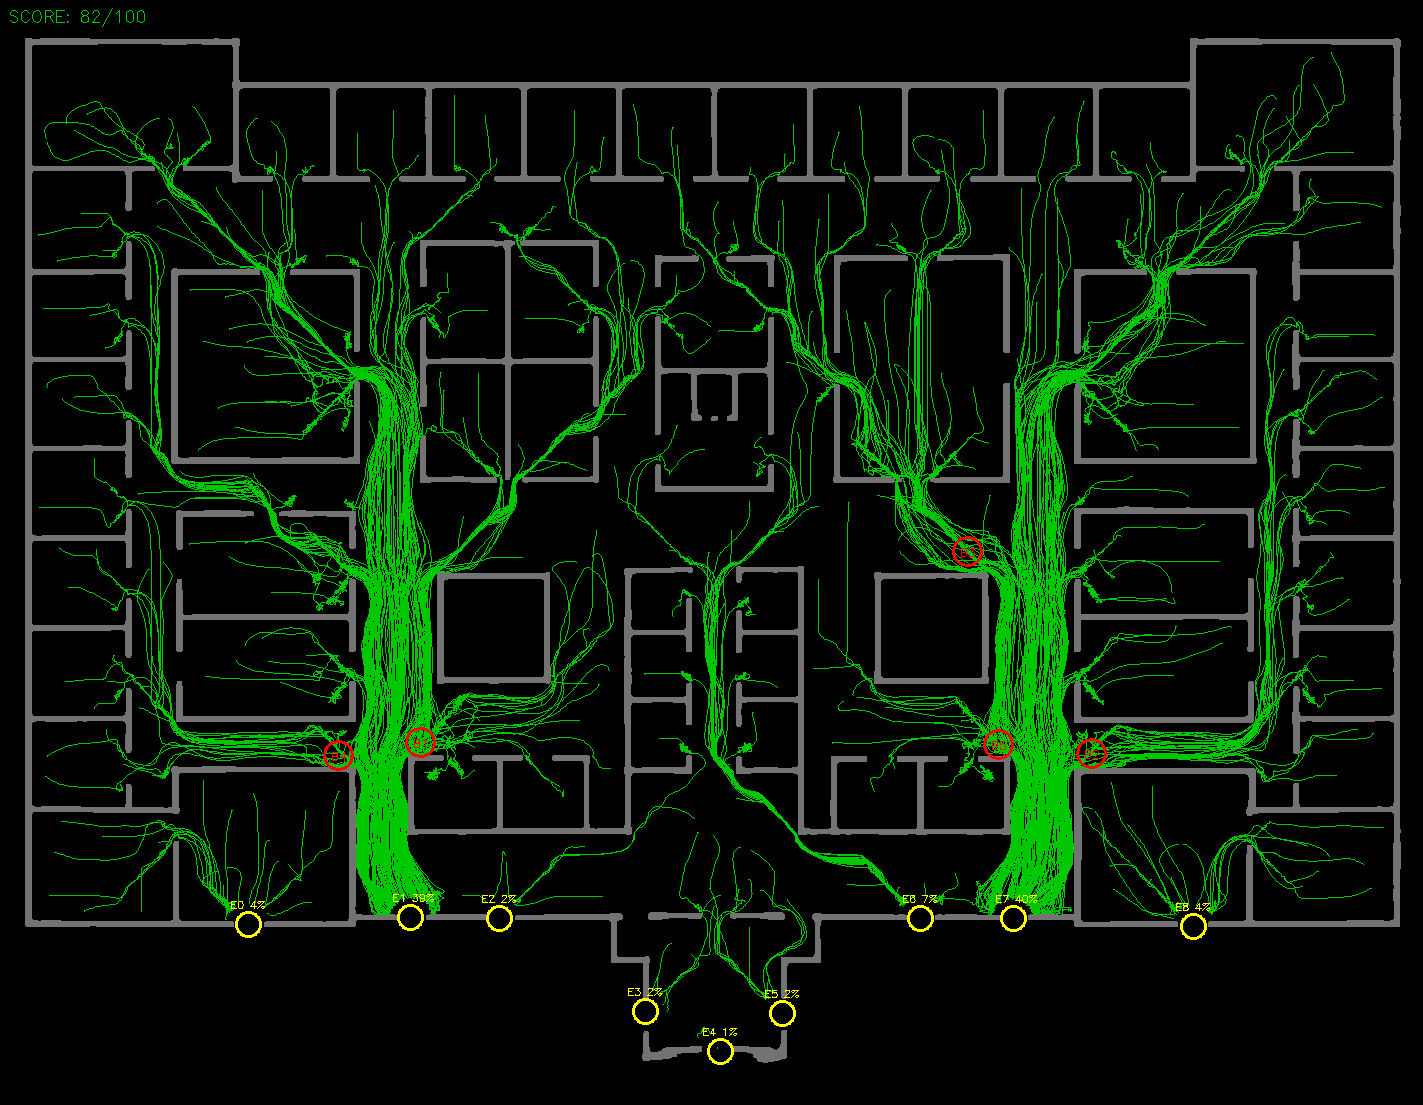
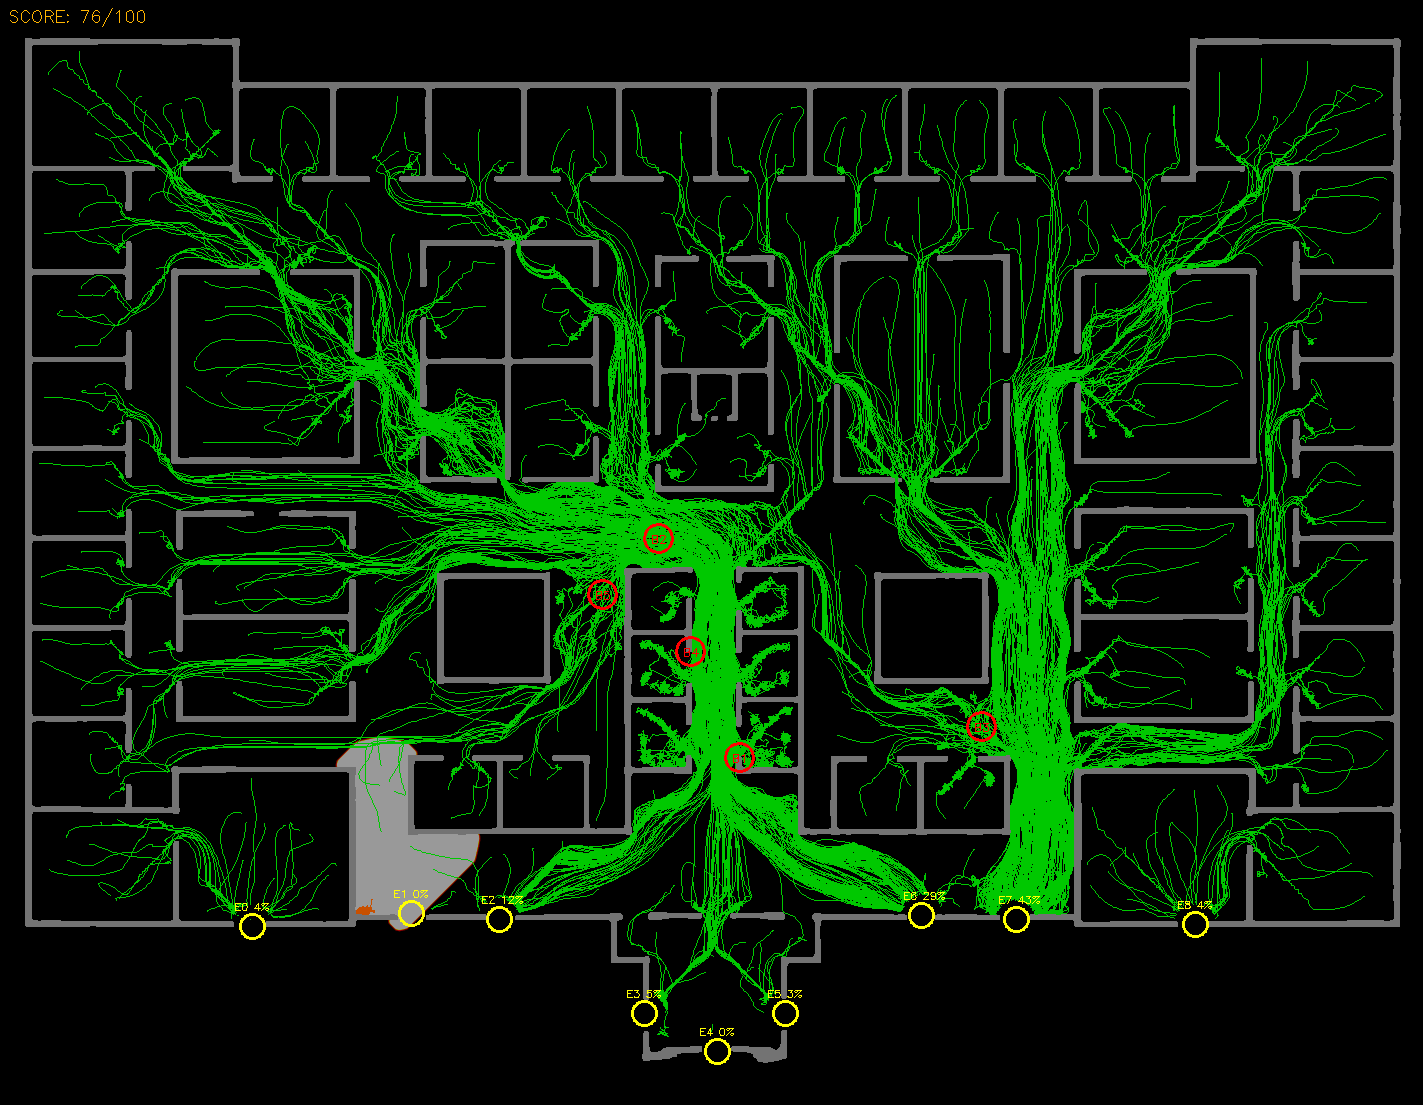
updated readme

diff --git a/README.md b/README.md
@@ -43,7 +43,7 @@ The pipeline has three stages:
 
 **Stage 1 — Map Parser**: Tiles the input image with 50% overlap, runs each patch through the U-Net, Gaussian-blends predictions back, binarizes to `stitched_mask.png` (black = walkable, white = wall).
 
-**Stage 2 — Zone Editor**: Watershed segmentation splits walkable area into rooms/corridors. You click zones to set agent density and place exit markers. Saves to a JSON config.
+**Stage 2 — Zone Editor**: Watershed segmentation splits walkable area into rooms/corridors. You click zones to set agent density, place exit markers, and optionally drop a hazard. Saves to a JSON config.
 
 **Stage 3 — Simulation**: Launches one of the four simulation scripts as a subprocess, streams output to the UI, displays the result image and report.
 
@@ -114,7 +114,29 @@ A 5000px² room at density 1.0 with base 1.0 gets 5 agents. Set density to 0 to 
 
 ---
 
-### 3. Four Simulation Algorithms
+### 3. Hazard & Fire Spread
+
+Hazard Mode drops a single point hazard on the map, saved as `{"x": int, "y": int}` under `"hazard"` in the zone config. All four models read it the same way and split the response into two layers:
+
+- **Routing (permanent, hard)** — a fixed-radius circle around the hazard is carved out of the walkable mask *before* the flow field / BFS cost / potential field is built. Agents never path through it, full stop. No per-tick rerouting, no extra cost — it's baked into pathing once at setup.
+- **Fire (growing, soft)** — a separate `fire_intensity` field grows and diffuses outward through the real walkable area every simulation tick, purely for visuals and a soft repulsion nudge near the flame front. This is what you actually see spreading in the output PNG.
+
+If an agent somehow ends up stuck inside the hazard radius with nowhere lower-cost to go, it gets pushed straight away from the hazard center rather than freezing in place.
+
+Two runtime params control fire behavior, exposed as sliders in the launcher for SFM, RVO, Continuum, and CA alike:
+
+```python
+"fire_spread_speed":     1.0,   # multiplier on diffusion rate
+"fire_intensity_factor": 1.0,   # multiplier on growth-to-saturation rate
+```
+
+Bump either one up and the burning area visibly grows faster within the same sim duration — both flow through the existing `CONFIG`/`apply_runtime_args()` param pickup, so no per-model special-casing was needed.
+
+CA doesn't have a velocity field to push agents around with, so its version of fire repulsion is a tiebreak: among equally-good candidate cells, it picks the cooler one instead of adding a force vector.
+
+---
+
+### 4. Four Simulation Algorithms
 
 All four models take the same inputs and produce the same output structure: scored image with agent trails, exit utilization percentages, and bottleneck markers.
 
@@ -149,6 +171,15 @@ The launcher copies mask and zone config to hardcoded filenames in the project r
 
 **Agents spawn but zero evacuate**
 Either (a) exit markers landed on a wall pixel — place them clearly inside a corridor, or (b) you saved the zone config before placing any exits so the `"exits"` array in the JSON is empty. Open the JSON and check. Exit radius defaults to 22px; if exits are in tight spaces, increase it.
+
+**Hazard placed but nothing seems to route around it**
+Check the hazard didn't land in a spot where the carved-out radius swallows the only corridor to an exit — if there's no walkable path left, agents just sit at max BFS cost and never evacuate. Either move the hazard or widen the layout.
+
+---
+
+## Contributing
+
+Bug reports, feature requests, and PRs welcome — see `CONTRIBUTING.md` for the project layout and the patterns new code is expected to follow (SFM is the reference model, `output/` hygiene rules, that kind of thing). Issue and PR templates are under `.github/` if you want a starting point.
 
 ---
 
